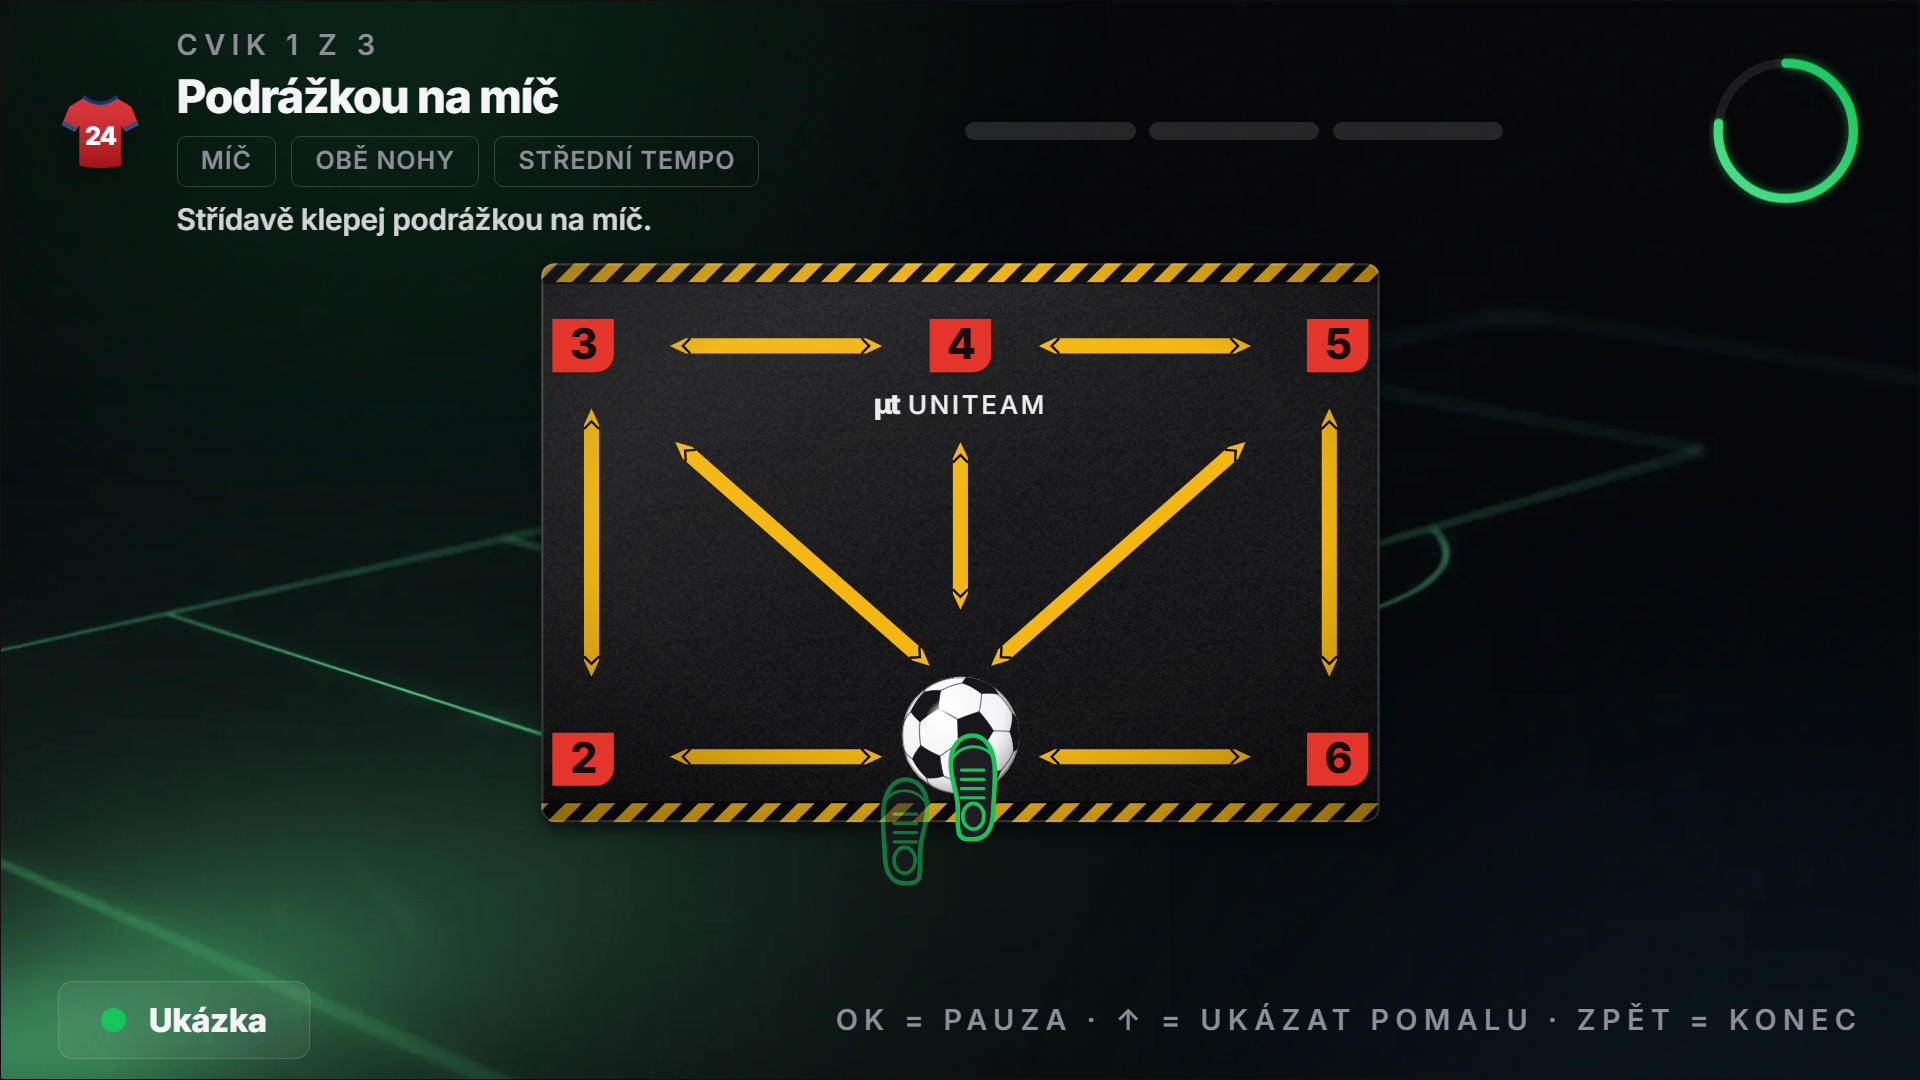
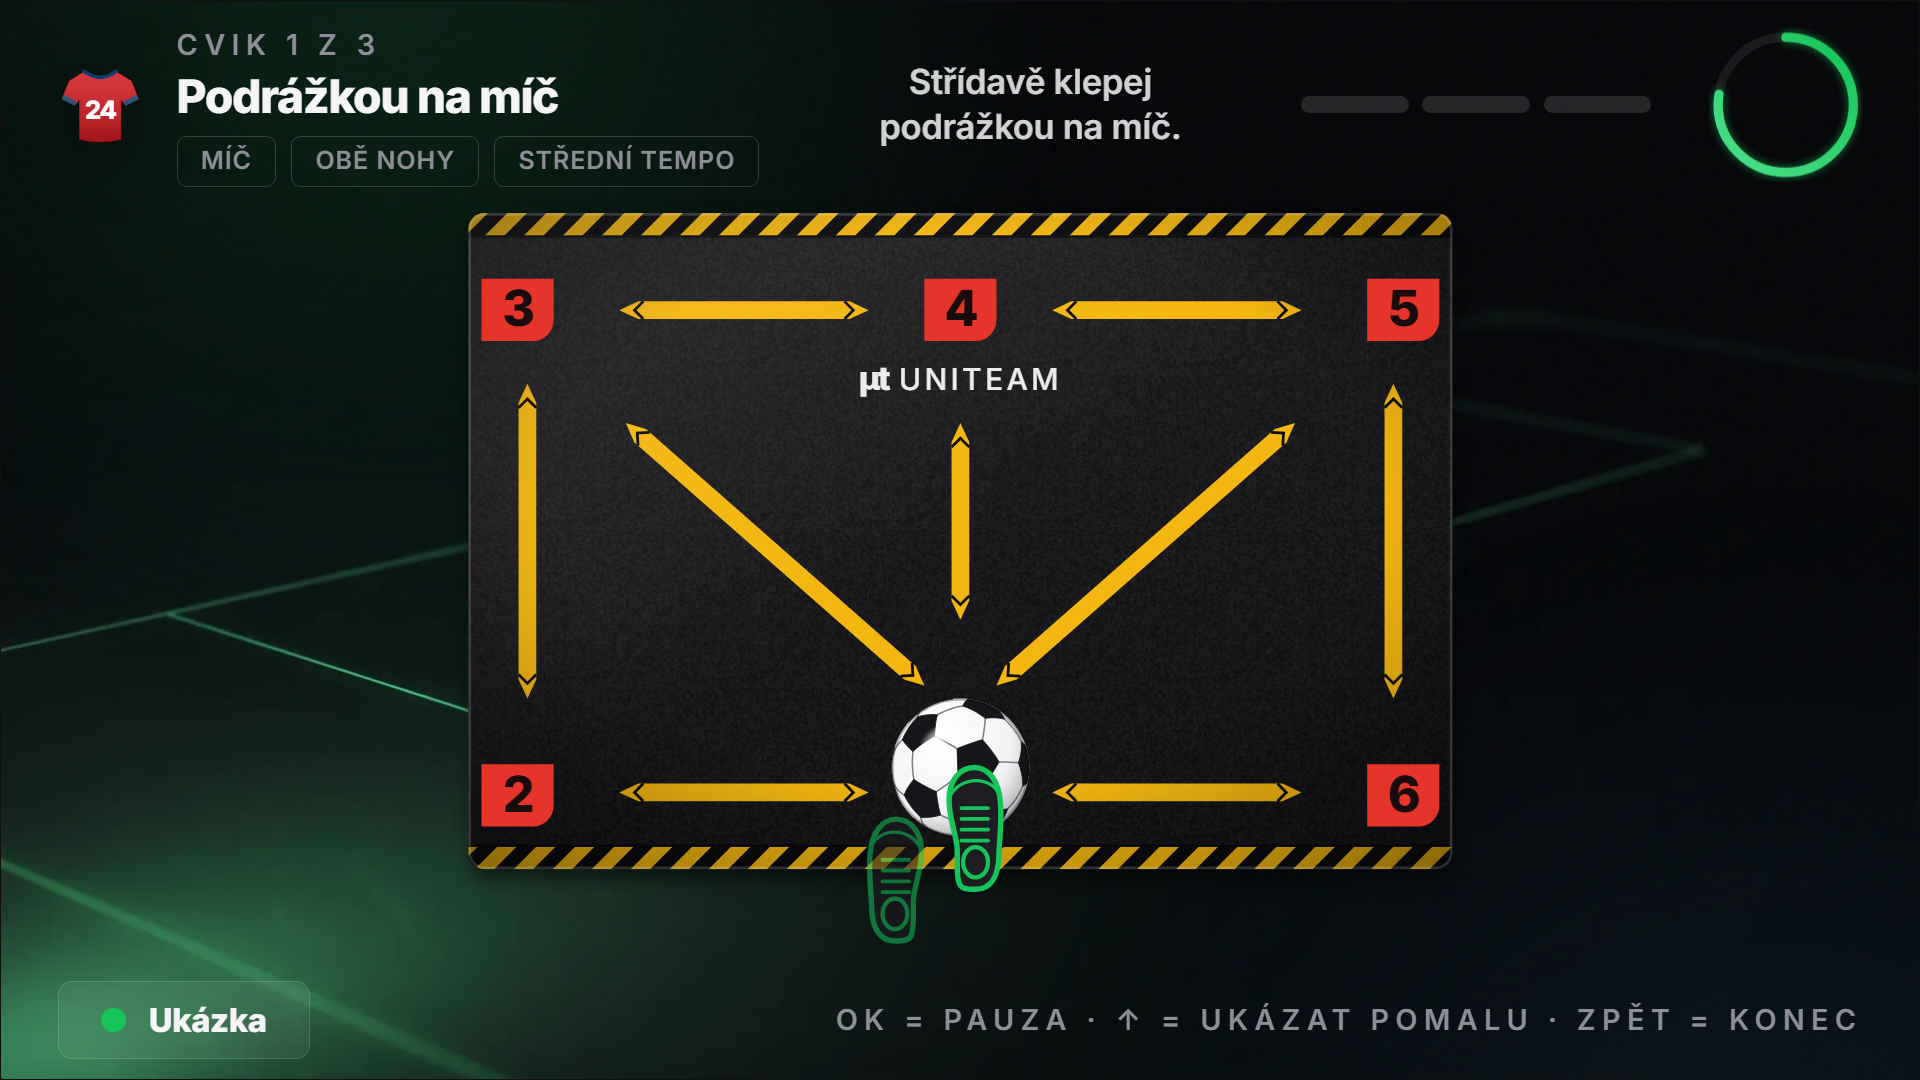
Přehrávač: rozložení jako dřív, ale větší podložka (méně místa pro nohy, popisek cviku v záhlaví)

Changed region(s): [[0.0938, 0.1833, 0.7812, 0.8861], [0.4688, 0.0306, 0.9688, 0.2139], [0.0312, 0.0611, 0.0938, 0.1528]]

diff --git a/src/screens/player.js b/src/screens/player.js
@@ -10,8 +10,8 @@ const PREVIEW_SEC = 6;
 
 export default function player({ profile, workout, mat: matCfg, tempoMul = 1 }, { go, onBack }) {
   const el = h('section', 'screen');
-  // široká obrazovka (poměr od cca 1,85, např. 1900×900): informace po stranách, podložka uprostřed přes celou výšku; na 16:9 zůstává podložka pod záhlavím
-  const wide = window.innerWidth / window.innerHeight > 1.85;
+  // rozložení: záhlaví nahoře, podložka co největší uprostřed, lišta dole (i na televizi; boční sloupce se neosvědčily, textům chyběla šířka)
+  const wide = false;
   el.style.cssText += wide
     ? `;flex-direction:row;align-items:stretch;justify-content:space-between;overflow:hidden;padding:${u(2)} ${u(3)};gap:${u(2)}`
     : `;justify-content:space-between;overflow:hidden;padding:${u(1.2)} ${u(3)} ${u(1.1)};gap:${u(0.7)}`;
@@ -22,22 +22,23 @@ export default function player({ profile, workout, mat: matCfg, tempoMul = 1 }, 
   const left = h('div', 'flex items-center');
   left.style.gap = u(1.8);
   left.append(jerseyEl(profile, wide ? 5 : 4.4));
-  if (wide) left.style.cssText += ';flex-direction:column;align-items:flex-start';
+  if (wide) left.style.cssText += ';flex-direction:column;align-items:flex-start;min-width:0;max-width:100%';
   const ttlBox = h('div', 'flex flex-col');
   ttlBox.style.gap = u(0.3);
+  ttlBox.style.cssText += ';min-width:0;max-width:100%';
   const counter = h('div', 'eyebrow');
   const title = h('div', '');
   title.style.cssText = `font-weight:800;font-size:${u(2.4)};letter-spacing:-0.03em;line-height:1.05`;
   const chips = h('div', 'flex');
-  chips.style.cssText = `gap:${u(0.8)};margin-top:${u(0.5)}`;
+  chips.style.cssText = `gap:${u(0.8)};margin-top:${u(0.5)};flex-wrap:wrap`;
   const task = h('div', ''); // co má hráč dělat (text k hlasu Trenéra)
-  task.style.cssText = `font-size:${u(1.55)};font-weight:600;color:var(--c-chalk);opacity:.85;margin-top:${u(0.4)};max-width:${u(wide ? 34 : 48)};line-height:1.3`;
-  ttlBox.append(counter, title, chips, task);
+  task.style.cssText = `font-size:${u(1.8)};font-weight:600;color:var(--c-chalk);opacity:.85;flex:1;min-width:0;max-width:${u(46)};padding:0 ${u(2)};text-align:center;line-height:1.3`;
+  ttlBox.append(counter, title, chips);
   left.append(ttlBox);
 
   // segmenty postupu tréninku (jeden na cvik)
   const segs = h('div', 'flex flex-1');
-  segs.style.cssText = wide ? `gap:${u(0.6)};width:${u(20)}` : `gap:${u(0.7)};max-width:${u(28)};min-width:${u(10)}`;
+  segs.style.cssText = wide ? `gap:${u(0.6)};width:${u(15)};max-width:100%` : `gap:${u(0.7)};max-width:${u(28)};min-width:${u(10)}`;
   const segFill = workout.map(() => {
     const s = h('div', '');
     s.style.cssText = `flex:1;height:${u(0.9)};border-radius:99px;background:rgba(255,255,255,.12);overflow:hidden`;
@@ -56,12 +57,12 @@ export default function player({ profile, workout, mat: matCfg, tempoMul = 1 }, 
     <div id="big" class="absolute inset-0 flex items-center justify-center font-extrabold" style="font-size:${u(3.1)};letter-spacing:-0.05em"></div>`;
   const arc = ring.querySelector('#arc');
   const big = ring.querySelector('#big');
-  head.append(left, segs, ring);
+  head.append(left, task, segs, ring);
 
   // ---- podložka přes celou střední část + velký odpočet nad ní ----
   const mid = h('div', wide ? 'flex items-center justify-center' : 'w-full flex-1 flex items-center justify-center');
   const mat = createMatView({ mat: matCfg, room: true });
-  mid.style.cssText += wide ? `;min-height:0;position:relative;flex:none;height:100%;aspect-ratio:${mat.aspect};max-width:calc(100% - ${u(54)})` :  ';min-height:0;position:relative';
+  mid.style.cssText += wide ? `;min-height:0;position:relative;flex:none;height:100%;aspect-ratio:${mat.aspect};max-width:calc(100% - ${u(34)})` :  ';min-height:0;position:relative';
   mat.el.style.cssText = 'width:100%;height:100%';
   mid.appendChild(mat.el);
   const cd = h('div', '');

diff --git a/src/ui/MatView.js b/src/ui/MatView.js
@@ -103,7 +103,7 @@ export function createMatView({ labels = true, mat = getMat(), room = false } = 
   const hintRgb = (() => { const n = parseInt(HINT.slice(1), 16); return `${(n >> 16) & 255},${(n >> 8) & 255},${n & 255}`; })();
   const bs = sk.badge || {}; const BADGE = bs.fill || RED;
   const id = `m${uidN++}`;
-  const vbW = room ? W + 12 : W; const vbH = room ? H + 28 : H; // room: okolo podložky je místo pro nohy (hlavně dole pod míčem)
+  const vbW = room ? W + 12 : W; const vbH = room ? H + 17 : H; // room: okolo podložky je místo pro nohy (hlavně dole pod míčem); nohy mohou přesáhnout (svg je overflow:visible)
   const vb = room ? `-6 -2 ${vbW} ${vbH}` : `0 0 ${W} ${H}`;
   const svg = s('svg', { viewBox: vb, class: 'w-full h-full', preserveAspectRatio: 'xMidYMid meet', style: 'overflow:visible' });
   const defs = s('defs', {}, svg);
